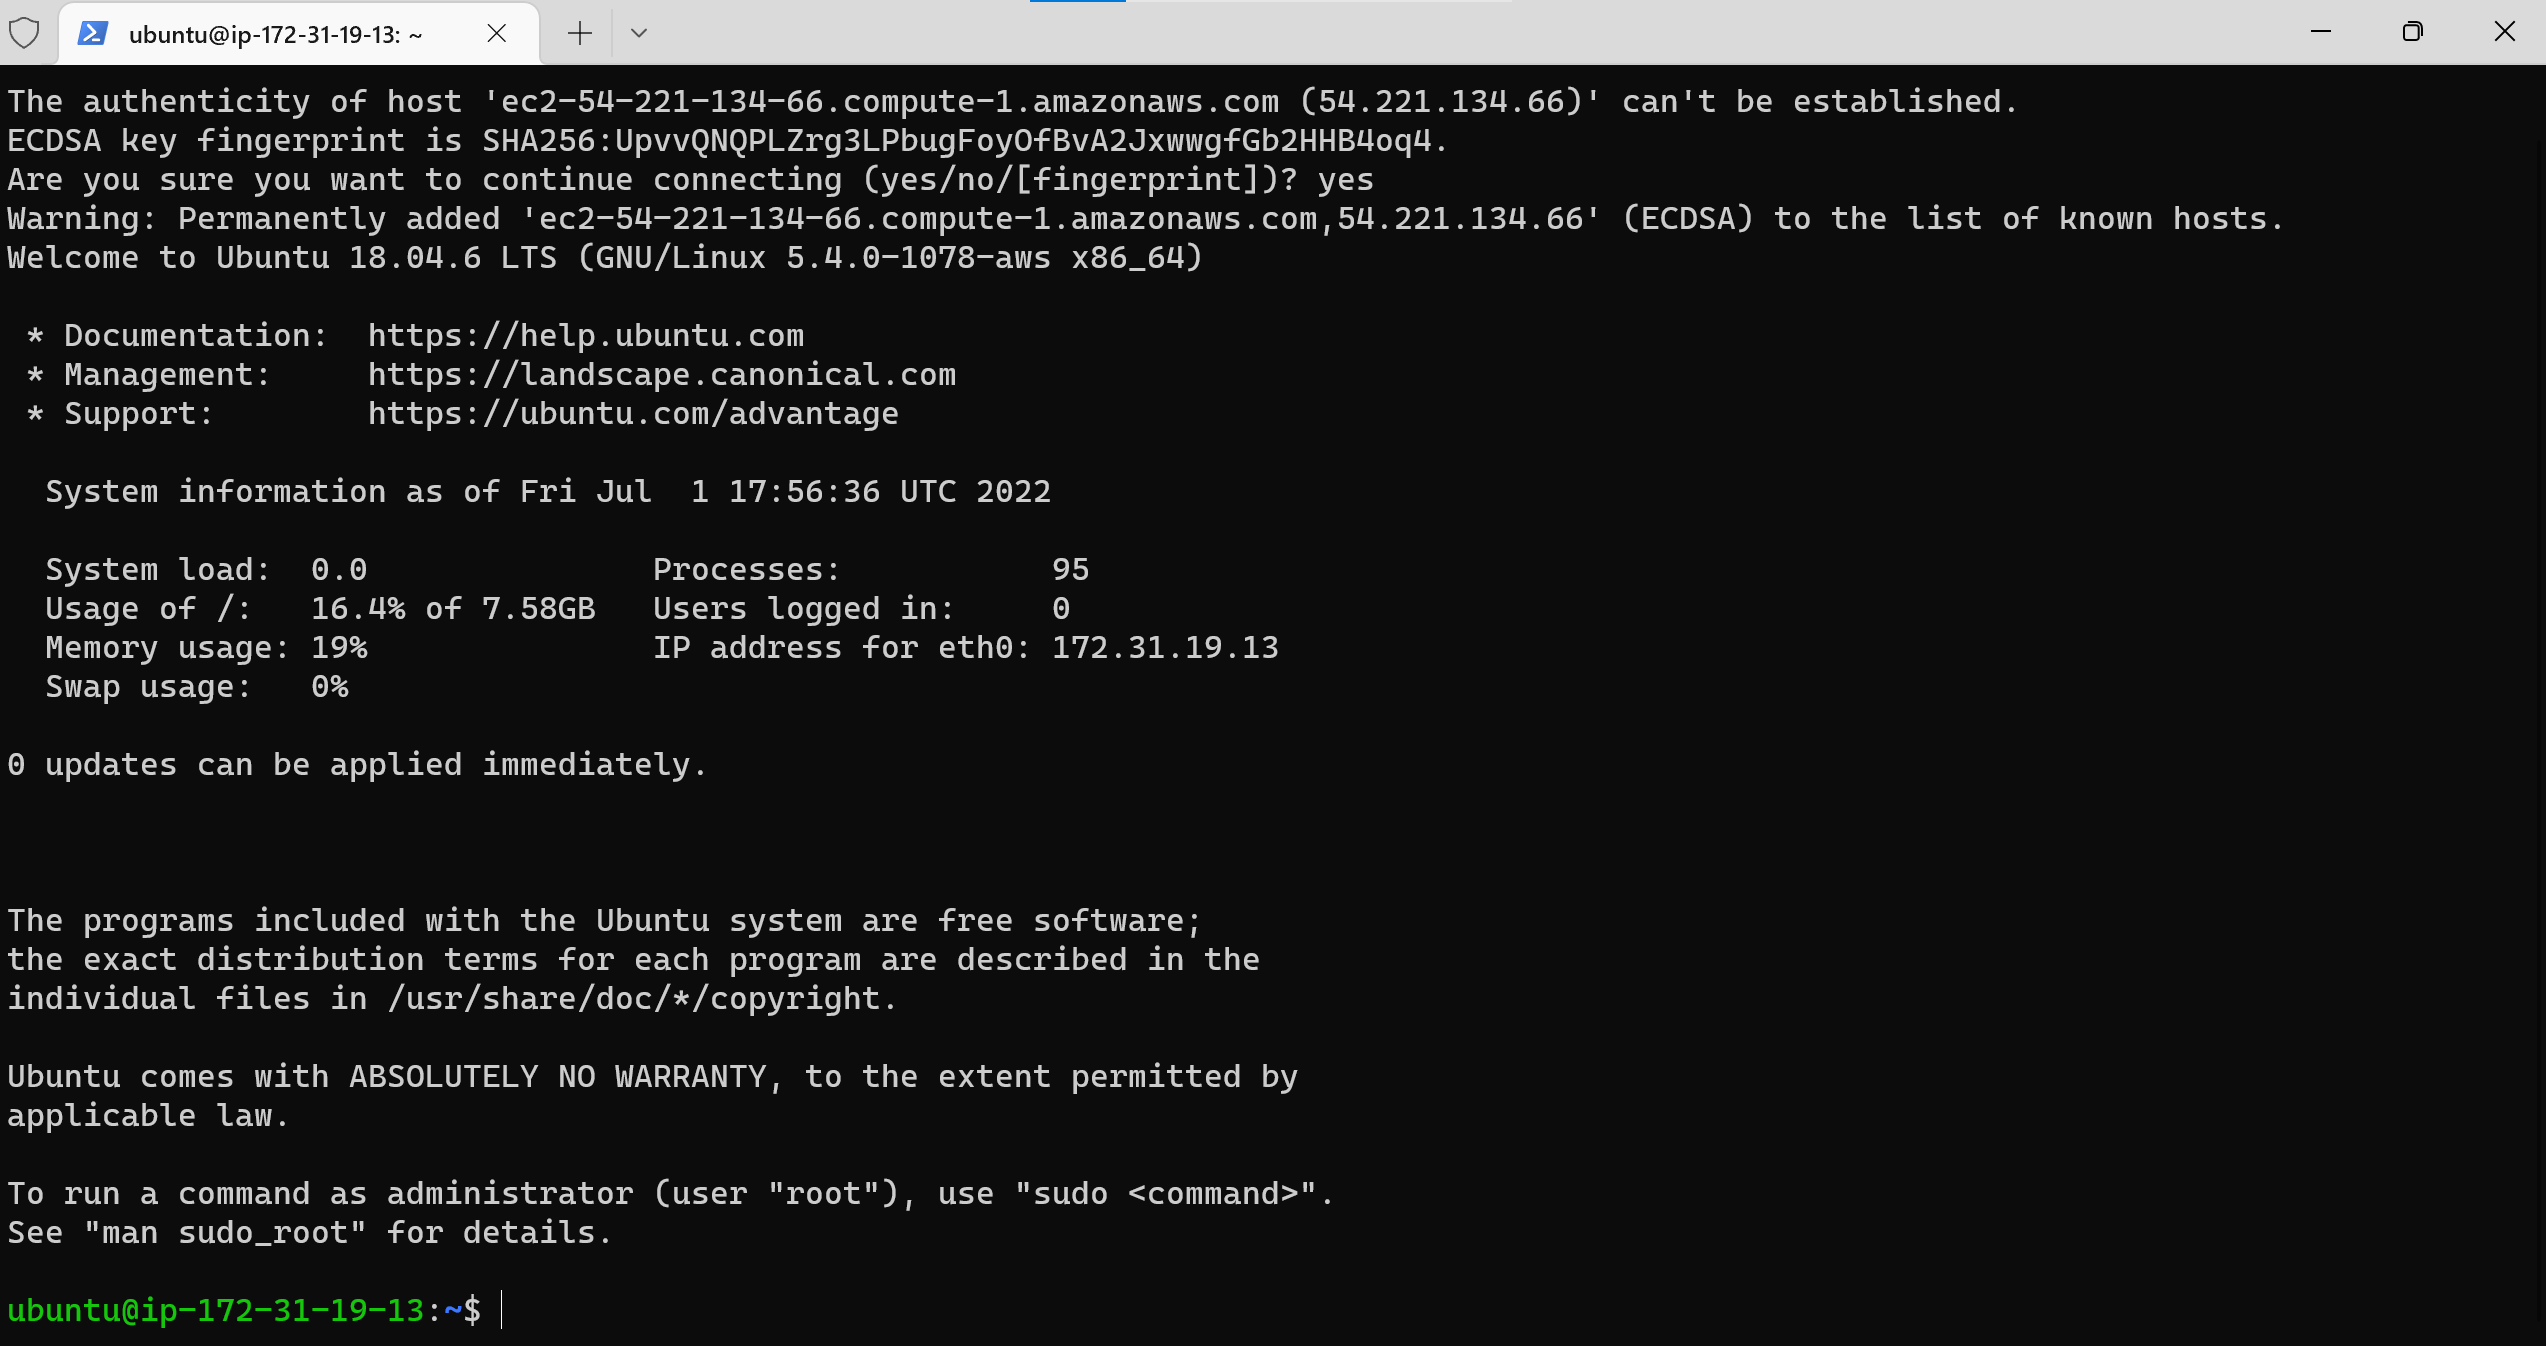
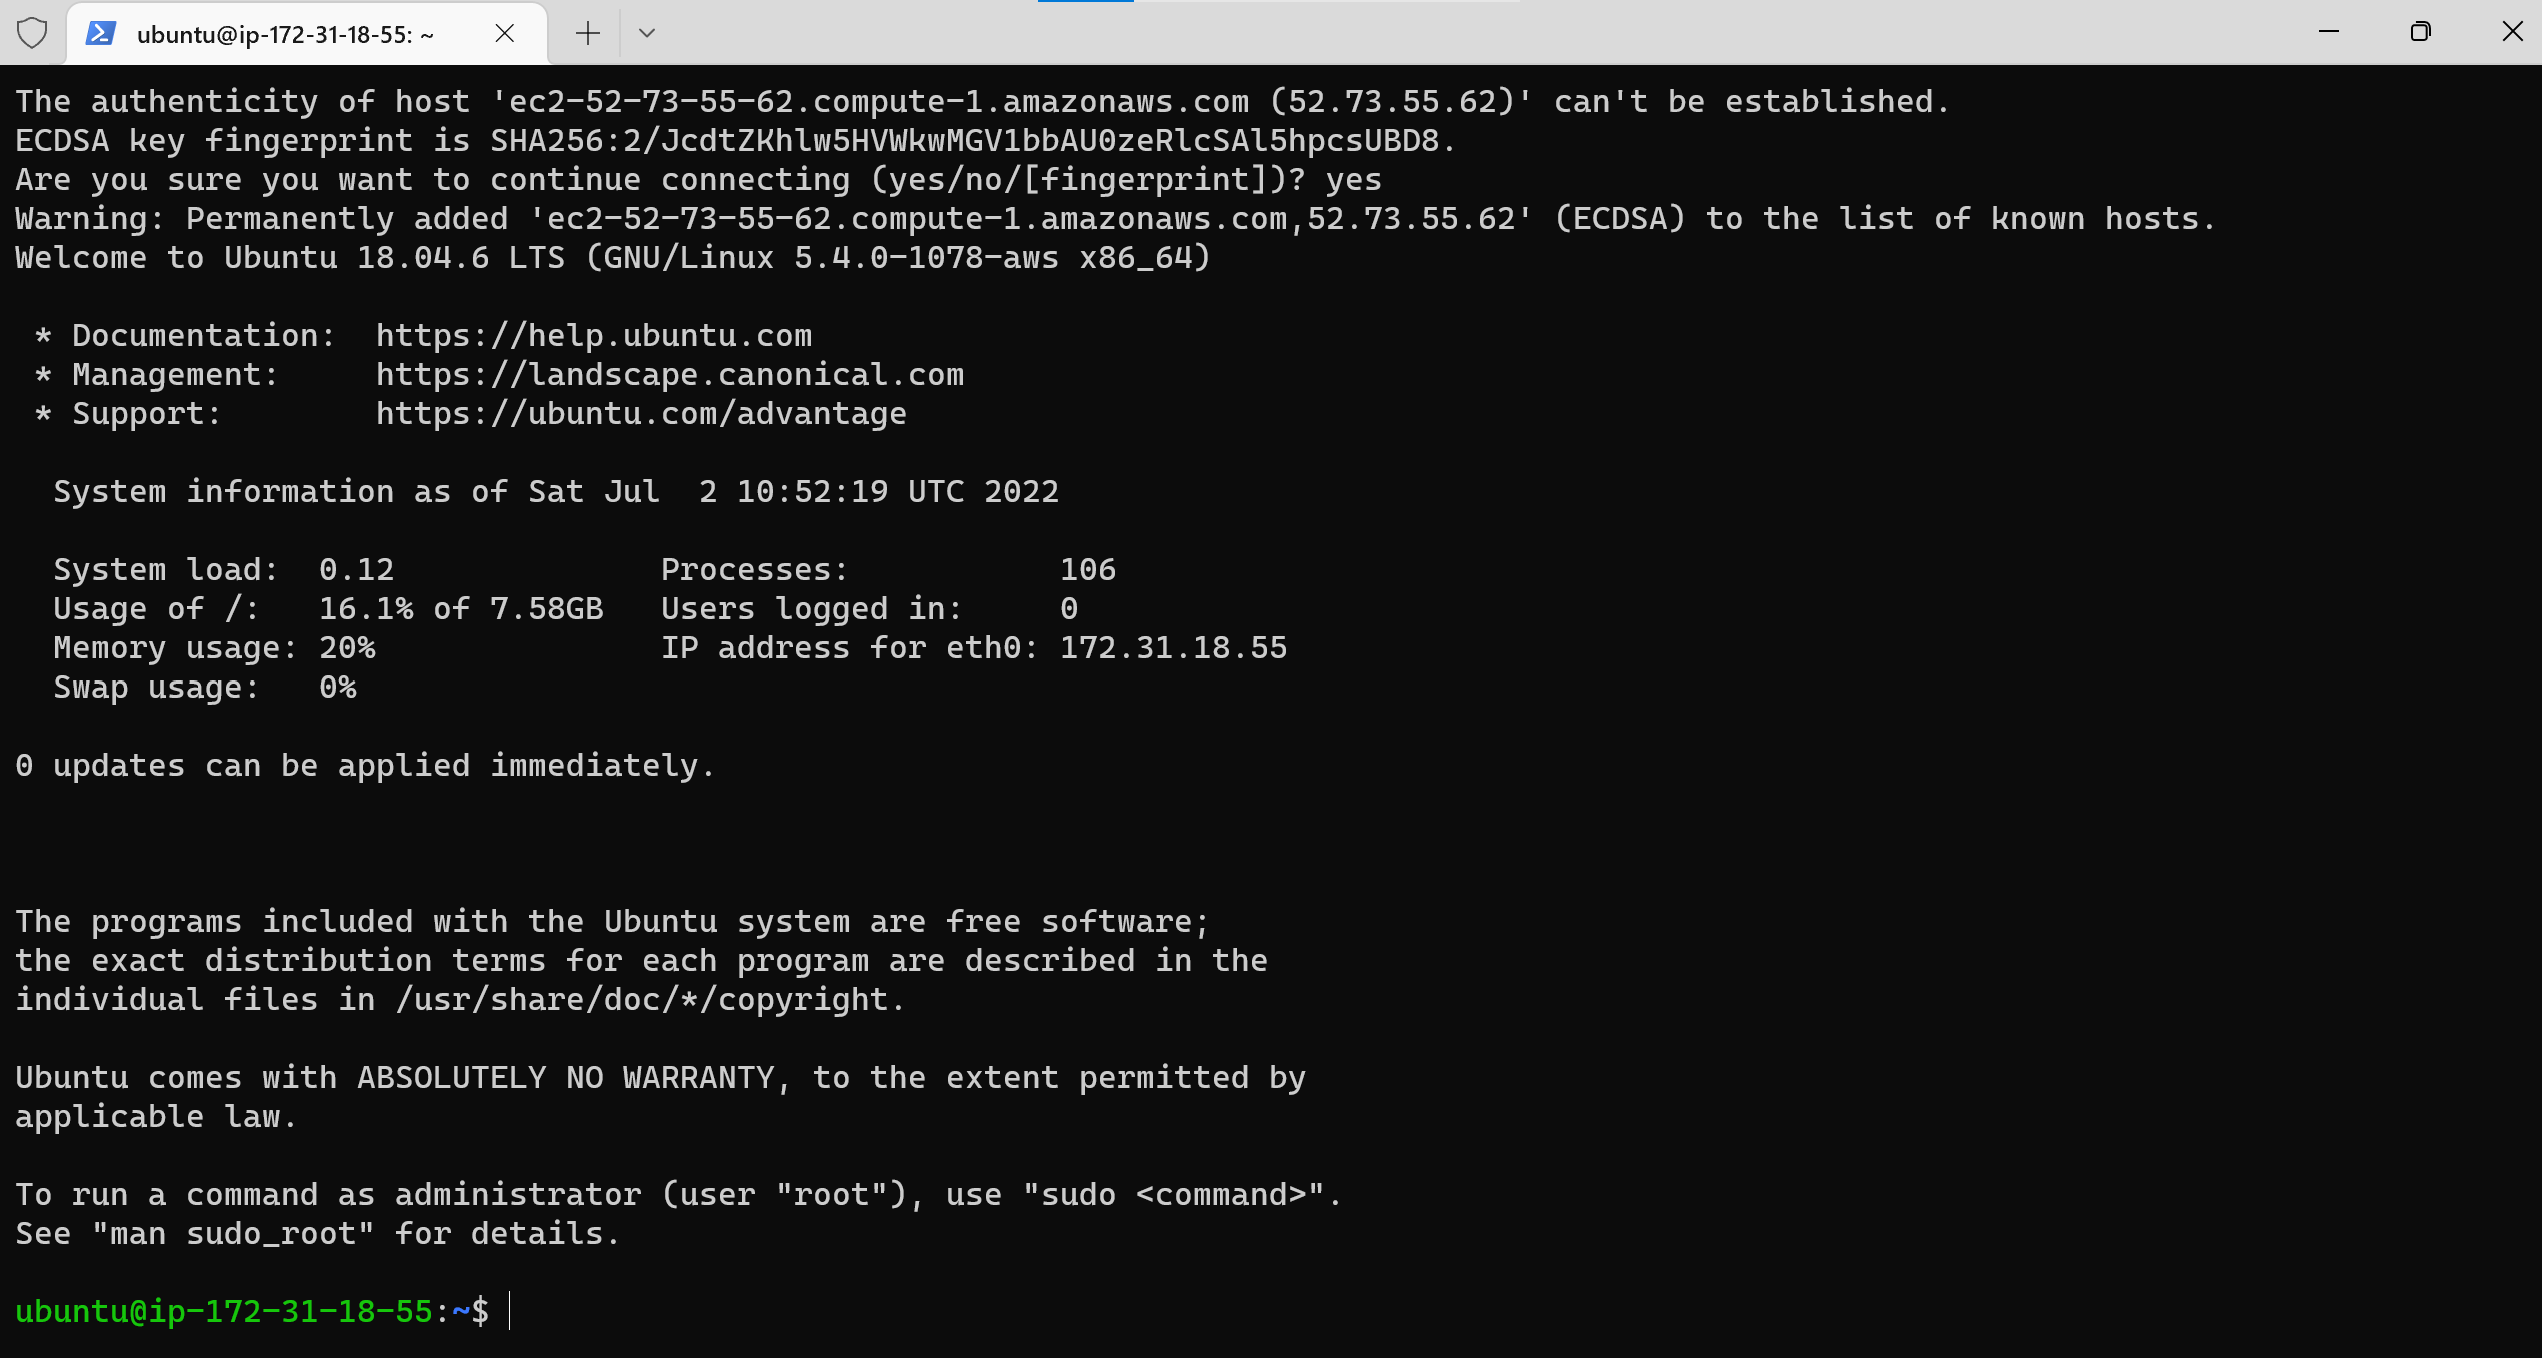
Image update

diff --git a/README.md b/README.md
@@ -1,3 +1,3 @@
 # WEB-STACK-IMPLEMENTATION-LAMP-STACK-IN-AWS
 ### In this project, I would show you the detailed steps on how to implemented a LAMP STACK in AWS.
-#### This means LAMP would implement as the server for web application hosting in AWS.
+#### This means **L**inux - **A**pache - **M**ySql - **P**hp would implement and configured on a AWS virtual machine as the server for web application hosting.

diff --git a/Project1.md b/Project1.md
@@ -9,5 +9,7 @@
 5. **Configure Security Group, generate a key pair and lunch.**
 ![EC2 instance](./images/4.png)
 6. **ssh into aws from windows terminal.**
-![EC2 instance](./images/5.png)
+![EC2 instance](./images/6.png)
 
+####  Step Two - Installing Apache and updating the firewall
+1. **Login into your AWS** 
